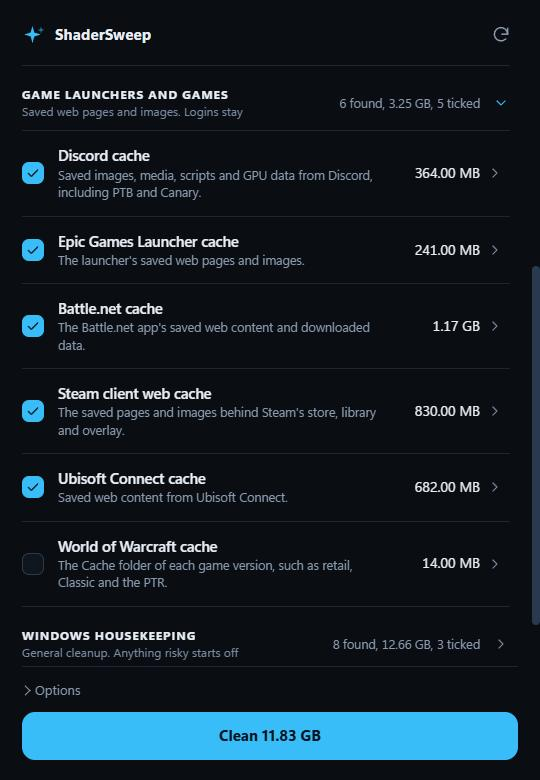
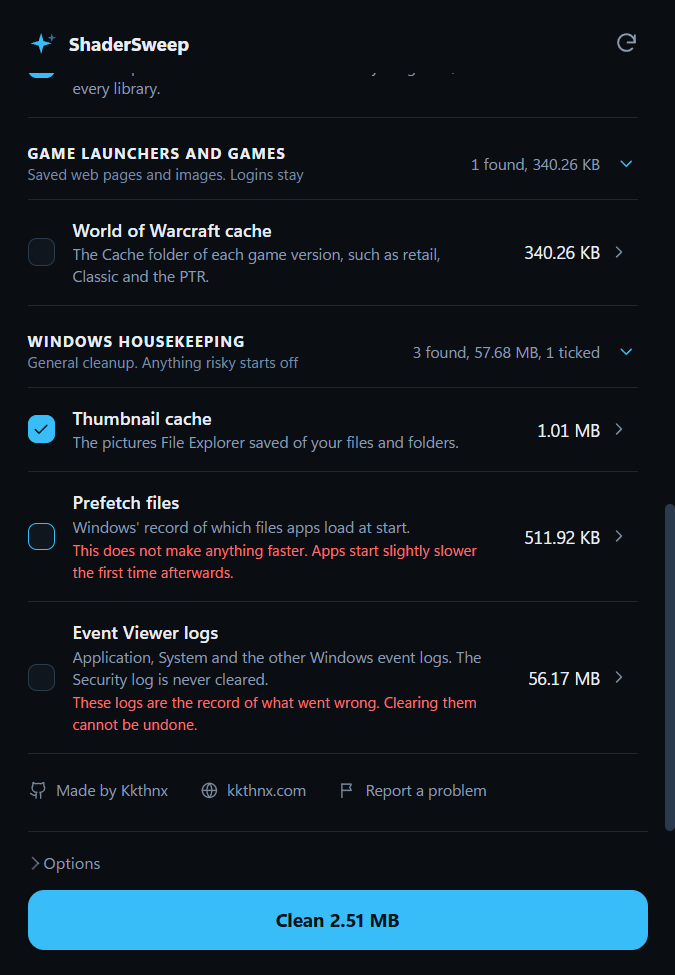
Retake the screenshots for 2.3.0 and note the new header
The old shots predate the per-drive free space lines and the folded
notices. They now show the 2.3.0 window. The second shot shows the
launcher and housekeeping groups, since this machine has only one
launcher cache.

The README mentions free space per drive, F5 to scan again and the
per-drive result after a clean.

diff --git a/README.md b/README.md
@@ -9,7 +9,7 @@ A small Windows app that clears GPU shader caches and the clutter that builds up
 
 <p align="center">
   <img src="assets/shadersweep-ready.png" alt="ShaderSweep listing the caches it found" width="290" />
-  <img src="assets/shadersweep-launchers.png" alt="The game launcher caches, each with its size" width="290" />
+  <img src="assets/shadersweep-launchers.png" alt="The game launcher and Windows housekeeping rows, each with its size" width="290" />
   <img src="assets/shadersweep-done.png" alt="ShaderSweep after a clean, showing the space freed" width="290" />
 </p>
 
@@ -60,9 +60,9 @@ The exe is not code signed yet, so SmartScreen may warn you the first time. The 
 ## Quick start
 
 1. Run ShaderSweep. It asks for administrator rights, since some caches belong to system accounts.
-2. Wait for the scan. Each row shows its size, and the arrow next to it lists the exact folders.
+2. Wait for the scan. Each row shows its size, and the arrow next to it lists the exact folders. The header shows free space for every drive that holds a cache, and F5 scans again.
 3. Untick anything you want to keep. Select Recommended puts the default ticks back.
-4. Press Clean, or turn on Preview only in Options first to see what would go.
+4. Press Clean, or turn on Preview only in Options first to see what would go. When it finishes, the result says how much space each drive gained.
 5. If files are waiting for a restart, the app offers one with a 60 second countdown you can cancel.
 
 ## Command line
